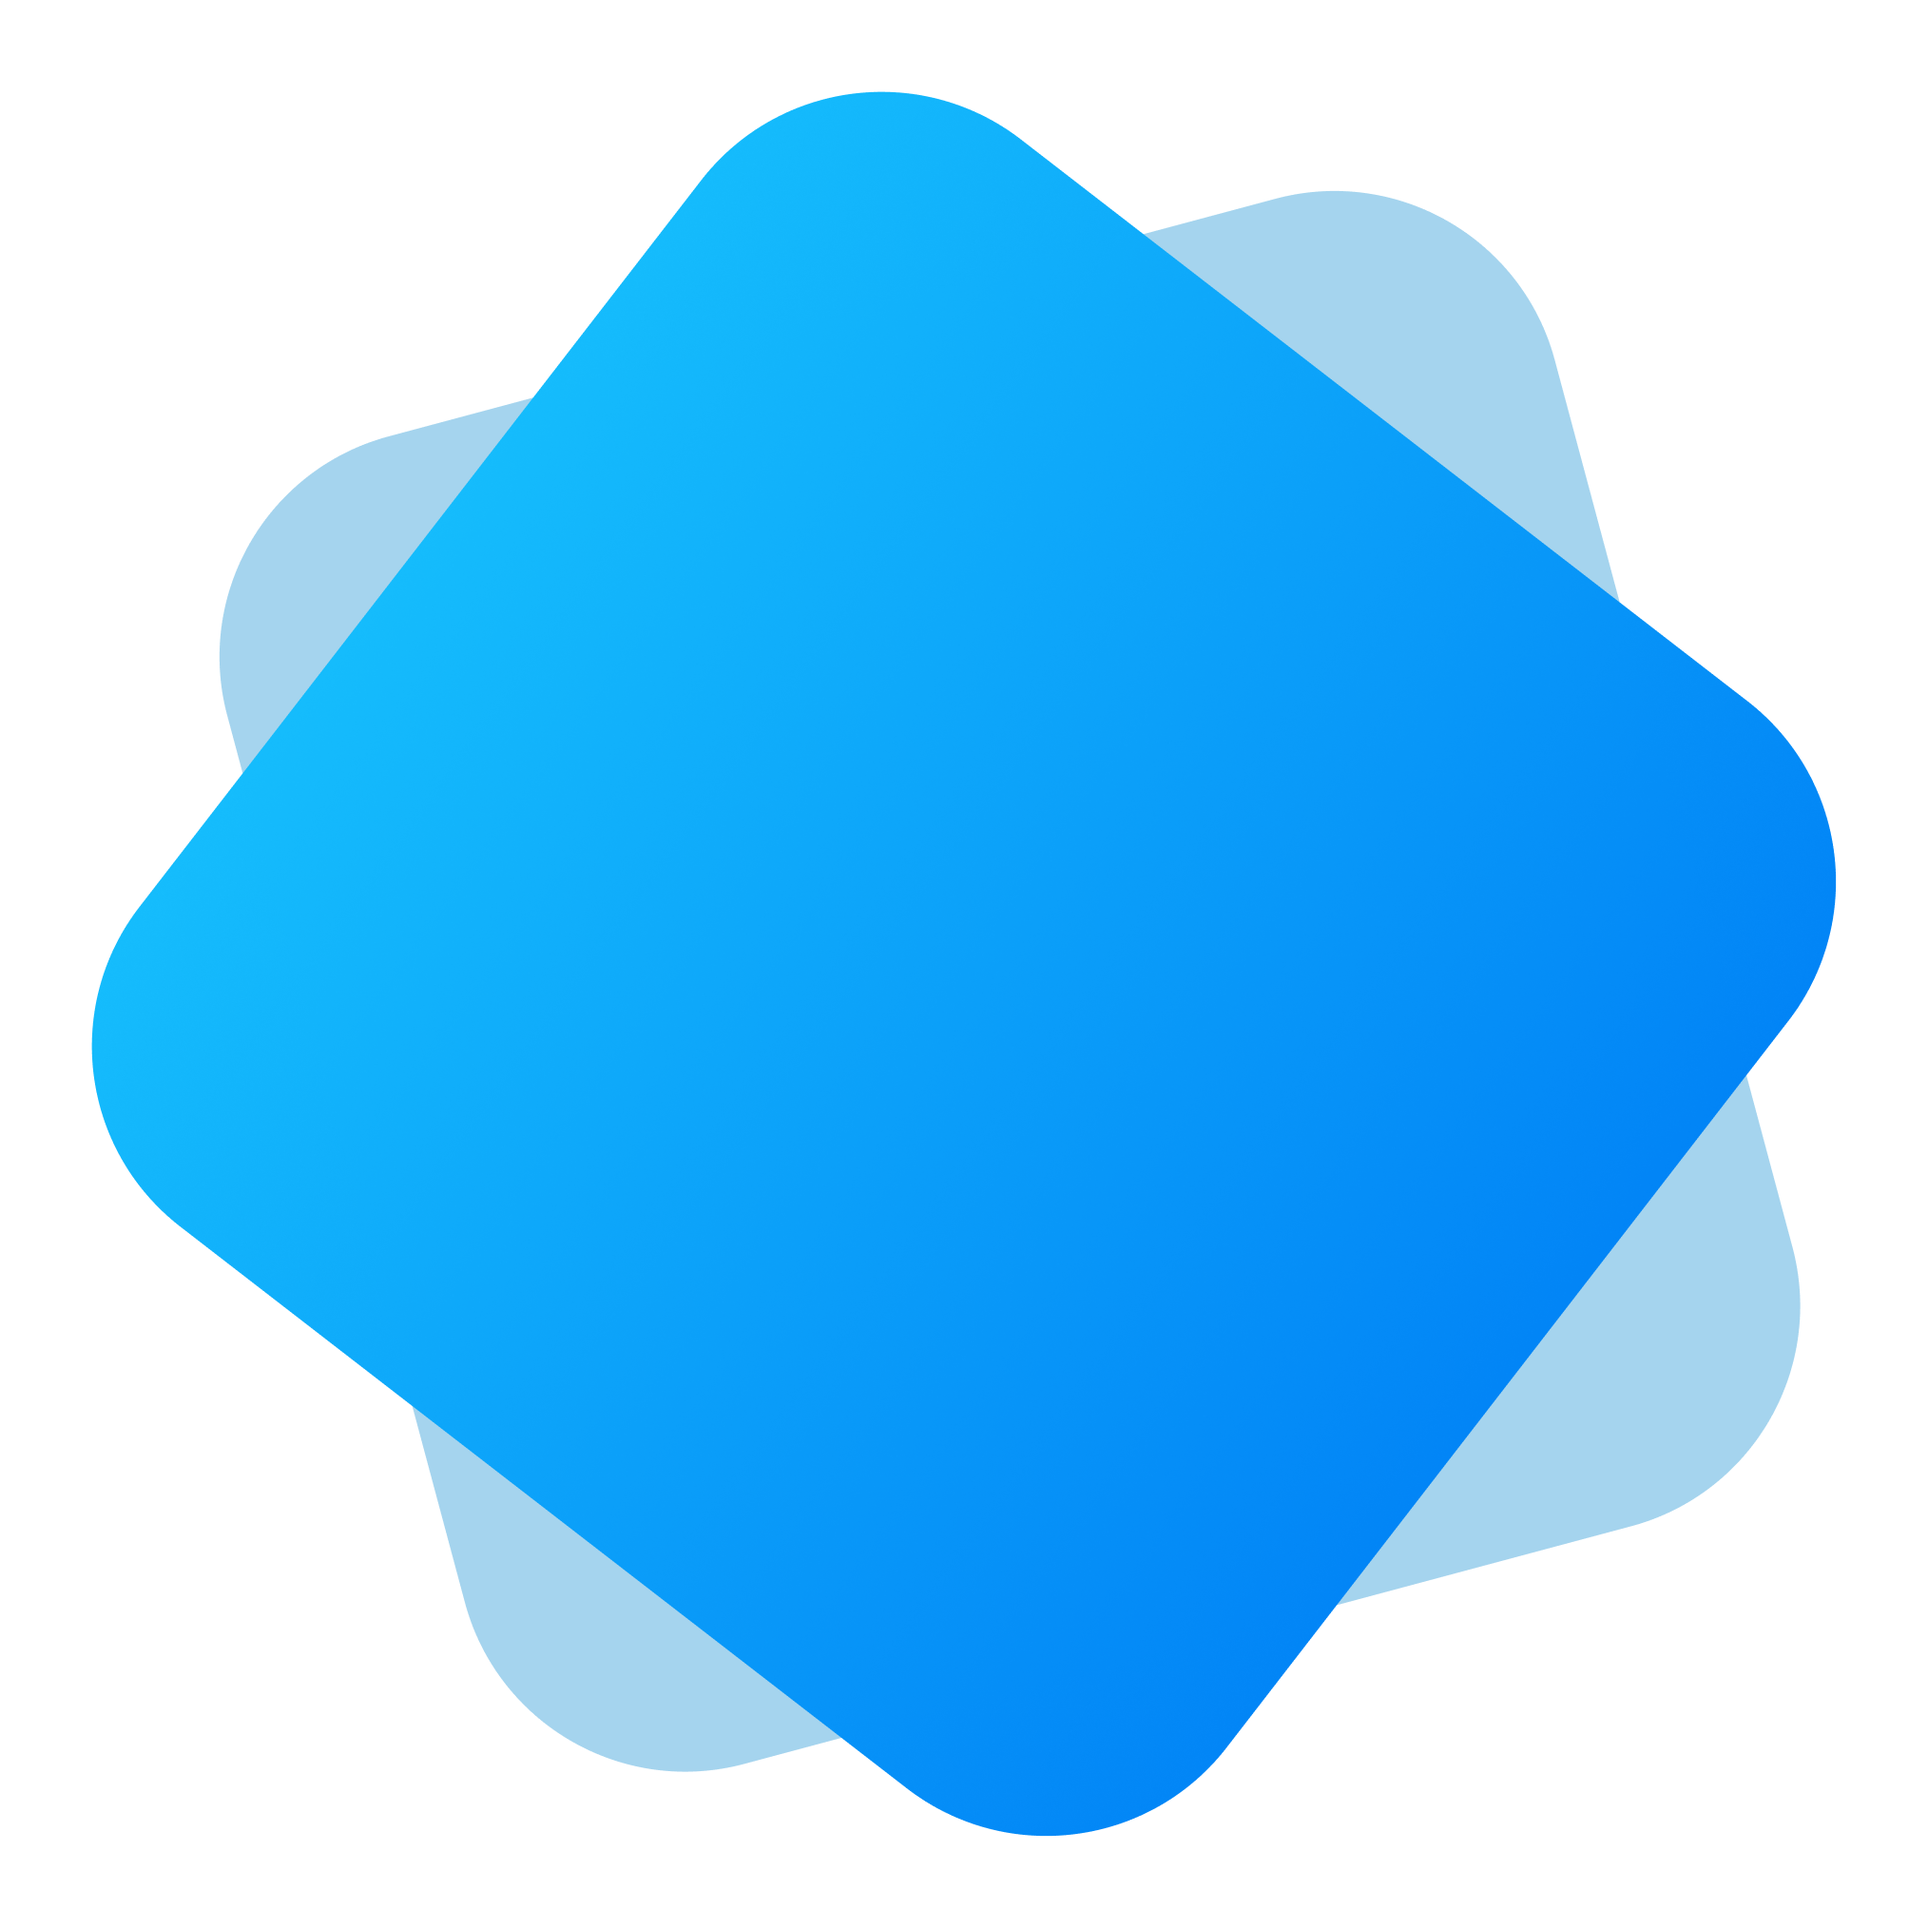
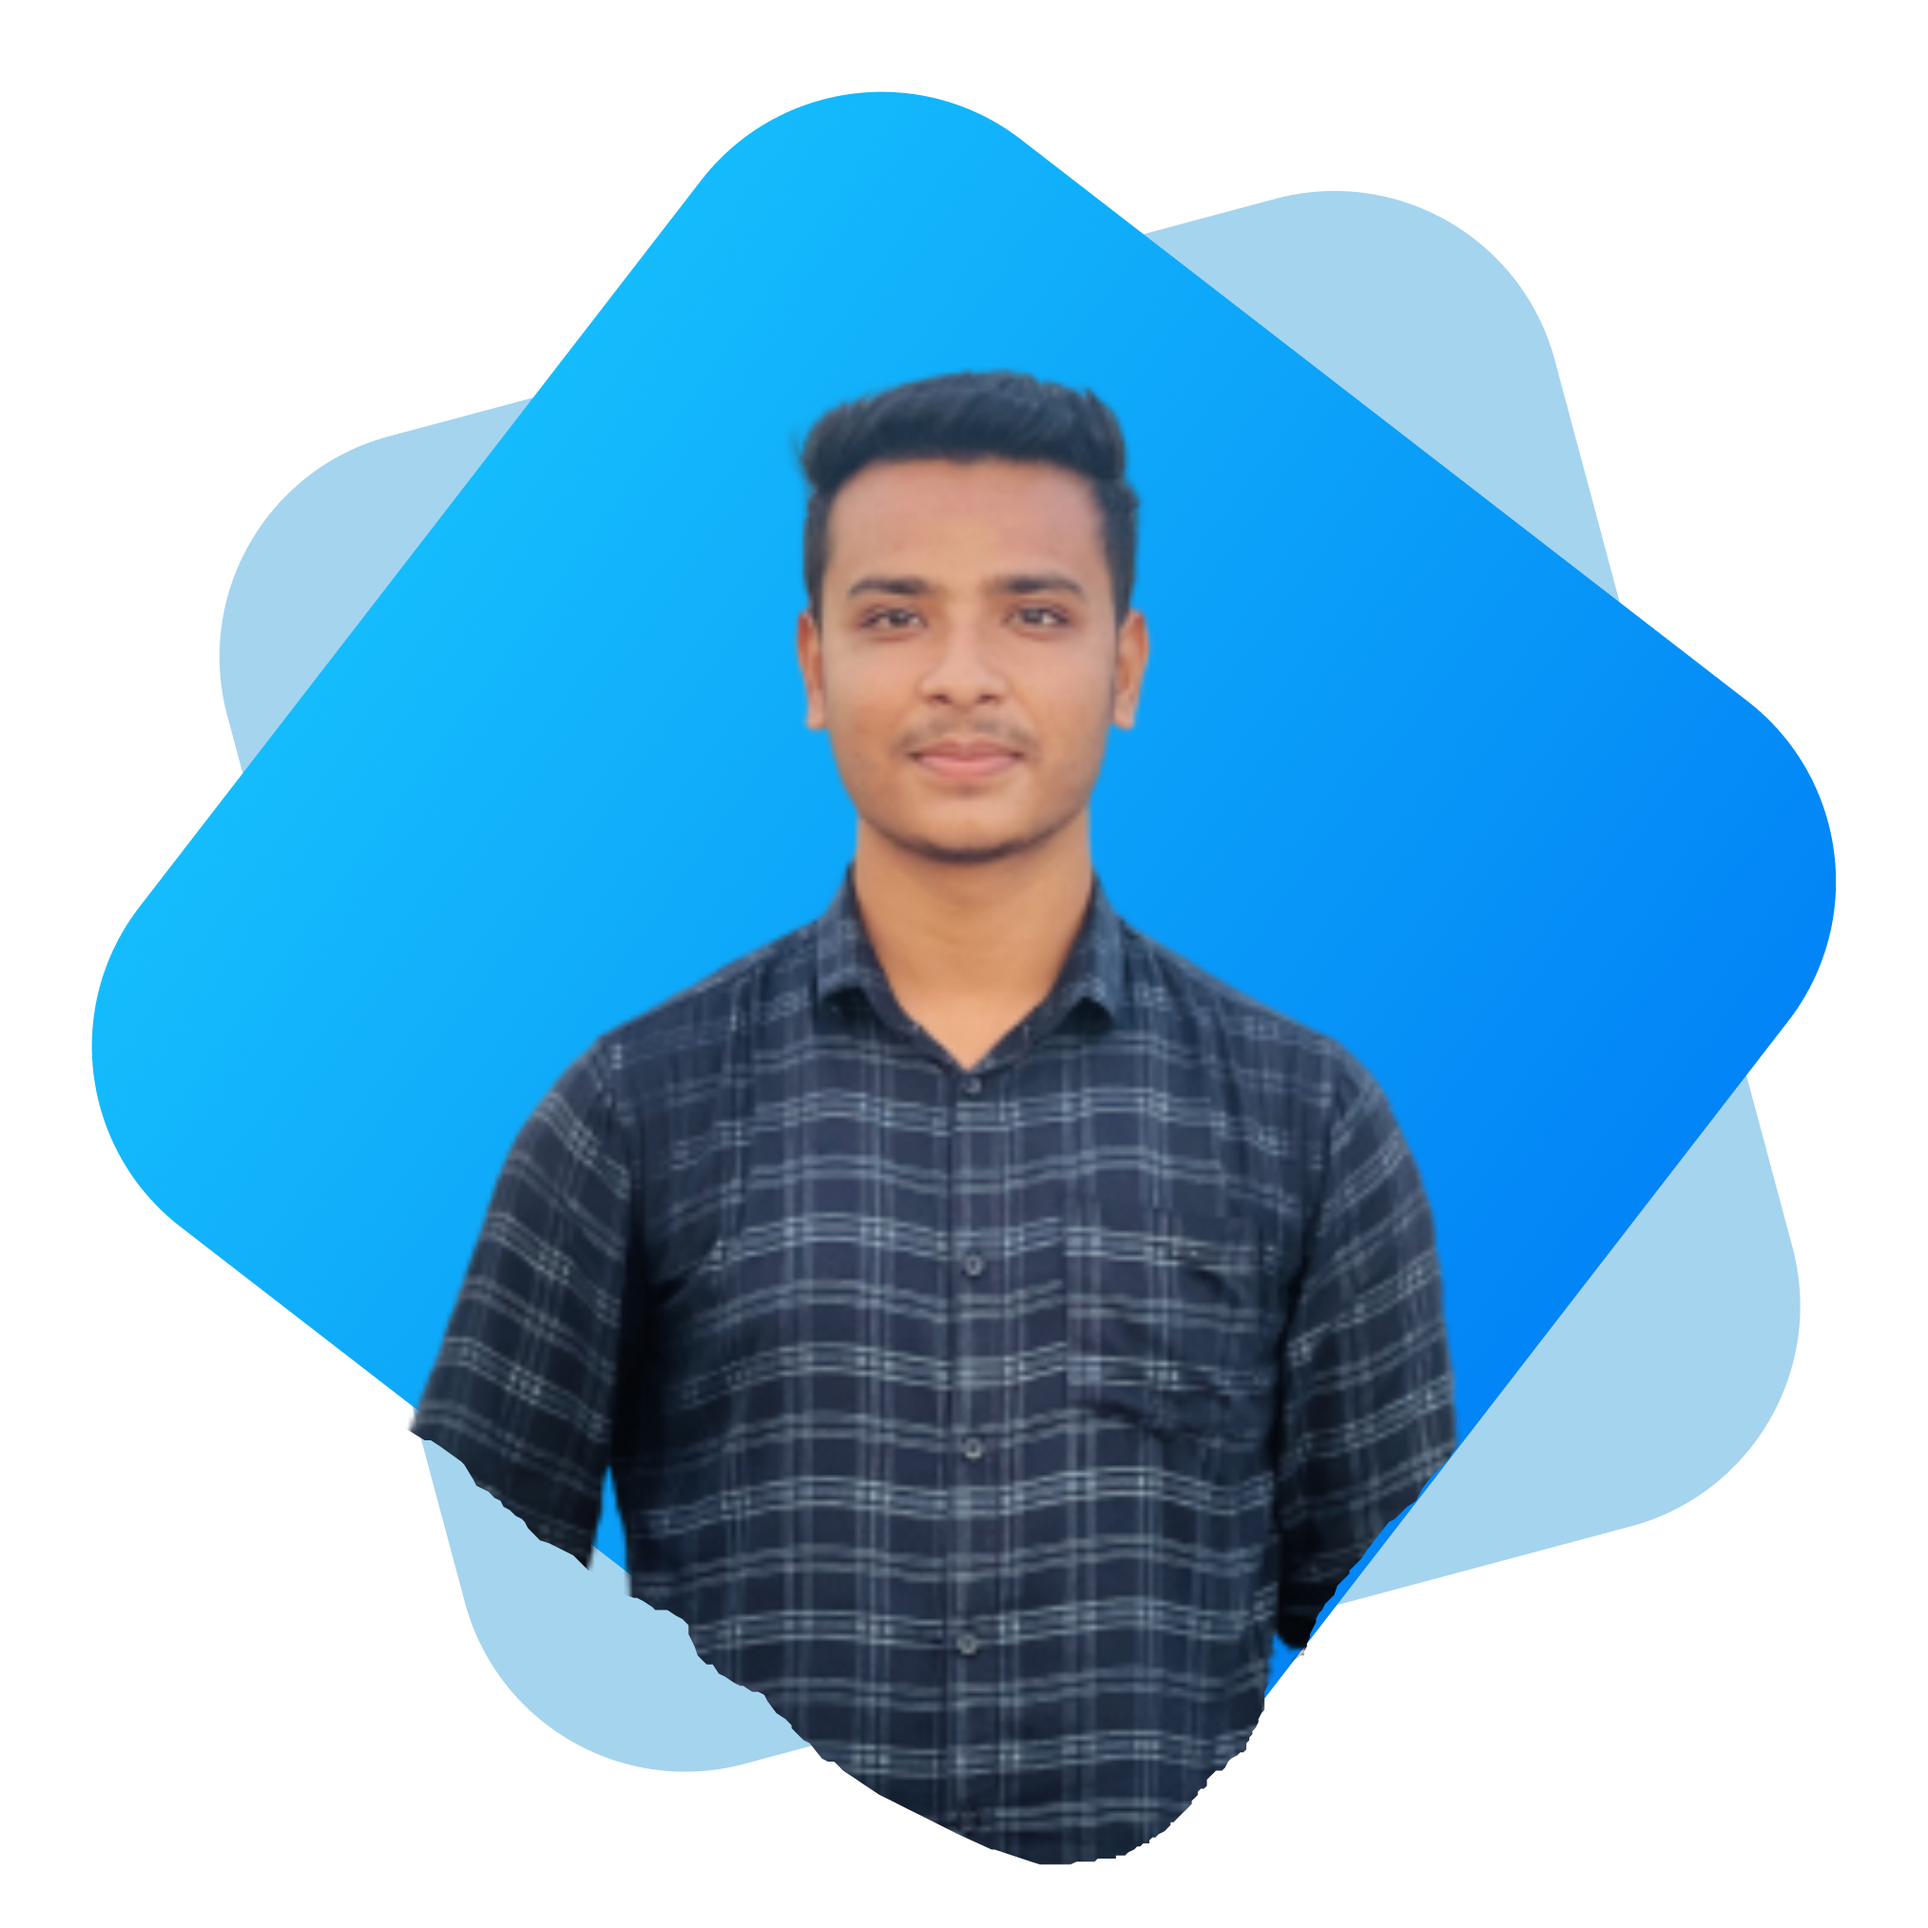
amar-kaj-ses

Changed region(s): [[0.2175, 0.1864, 0.7766, 0.9941]]

diff --git a/index.html b/index.html
@@ -5,9 +5,80 @@
     <meta http-equiv="X-UA-Compatible" content="IE=edge">
     <meta name="viewport" content="width=device-width, initial-scale=1.0">
     <title>practice protfolio</title>
+    <link rel="preconnect" href="https://fonts.googleapis.com">
+<link rel="preconnect" href="https://fonts.gstatic.com" crossorigin>
+<link href="https://fonts.googleapis.com/css2?family=Montserrat&family=Poppins&display=swap" rel="stylesheet">
     <link rel="stylesheet" href="style.css">
 </head>
 <body>
-    
+    <section class="debag">
+        <div class="half-width">
+            <h1>
+                <span class="orange-color">Skip</span> The Diet, <br>Just Eat Healthy <br>With Food Network
+            </h1>
+            
+            
+            <p>Imagine you don't need a diet because we provide
+healthy and delicious food for you!</p>
+                <a class="button" href="#">Order Food</a>
+        </div>
+        <div class="half-width">
+            <img src="images/shapes/1.png" alt="">
+        </div>
+    </section>
+
+    <section class="background-img debag">
+        
+            <div class="half-width">
+            <img src="images/female/Person Image.png" alt="">
+        </div>
+        <div class="half-width">
+            <h1>About Me</h1>
+            <p>Lorem ipsum dolor sit amet, consectetur adipiscing
+elit. Condimentum diam orci pretium a pharetra,
+feugiat cursus. Dictumst risus, sem egestas odio cras
+adipiscing vulputate. Nisi, risus in suscipit non. Non
+commodo volutpat, pharetra, vel.</p>
+                <a class="button" href="#">Order Food</a>
+
+        </div>
+        
+    </section>
+    <section>
+        <h1 class="my">My recipies</h1>
+        <p class="my">Lorem Ipsum is simply dummy text of the <br> printing and typesetting industry. <br>
+Lorem Ipsum has been the industry's standard <br> dummy text ever since the
+1500s.</p>
+            <div class="debag">
+                <div class="food">
+                <img class="imag-add" src="images/food/Project Cover.jpg" alt="">
+            <h1>Recipie Title</h1>
+            <p>Lorem Ipsum is simply dummy text of the printing and
+typesetting industry. Lorem Ipsum has been the industry's
+standard dummy text ever since the 1500s.</p>
+
+        </div>
+        <div class="food">
+            <img class="imag-add" src="images/food/Project Cover1.jpg" alt="">
+            <h1>Recipie Title</h1>
+            <p>Lorem Ipsum is simply dummy text of the printing and
+typesetting industry. Lorem Ipsum has been the industry's
+standard dummy text ever since the 1500s.</p>
+        </div>
+            </div>
+    </section>
+
+    <section class="debag ">
+        <div>
+            <h1>700k</h1>
+            <p>Youtube Subscribers</p>
+        </div>
+        <div>
+            <h1>2.4m</h1>
+            <p>Instagram Followers</p>
+        </div>
+        <div>100k</div>
+        <p>Dribbble Shot Likes</p>
+    </section>
 </body>
 </html>

diff --git a/style.css b/style.css
@@ -1,0 +1,51 @@
+body{
+    font-family: font-family: 'Montserrat', sans-serif;
+font-family: 'Poppins', sans-serif;;
+    margin: 0%;
+}
+.debag{
+    display: flex;
+    margin-bottom: 150px;
+
+}
+h1{
+    font-size: 40px;
+}
+.orange-color{
+    color: orange;
+}
+.half-width{
+   width: 50%;
+    margin-left: 5%;
+    padding-top: 5%;
+    padding-left: 2%;
+}
+.half-width img{
+    width: 90%;
+    
+}
+.button{
+     text-decoration: none;
+    background-image: linear-gradient(orange, tomato);
+    padding: 10px 40px;
+    border-radius: 15px;
+    font-weight: 700;
+    color: white;}
+
+.background-img{
+    background-image: url(images/shapes/7.png);
+}
+.food{
+    width: 40%;
+    margin-left: 5%;
+    margin-right: 5%;
+    padding-left: 20px;
+    border-radius: 10px;
+    box-shadow:  10px 10px 40px gray;
+}
+.imag-add{
+    width: 100%;
+}
+.my{
+    text-align: center;
+}
